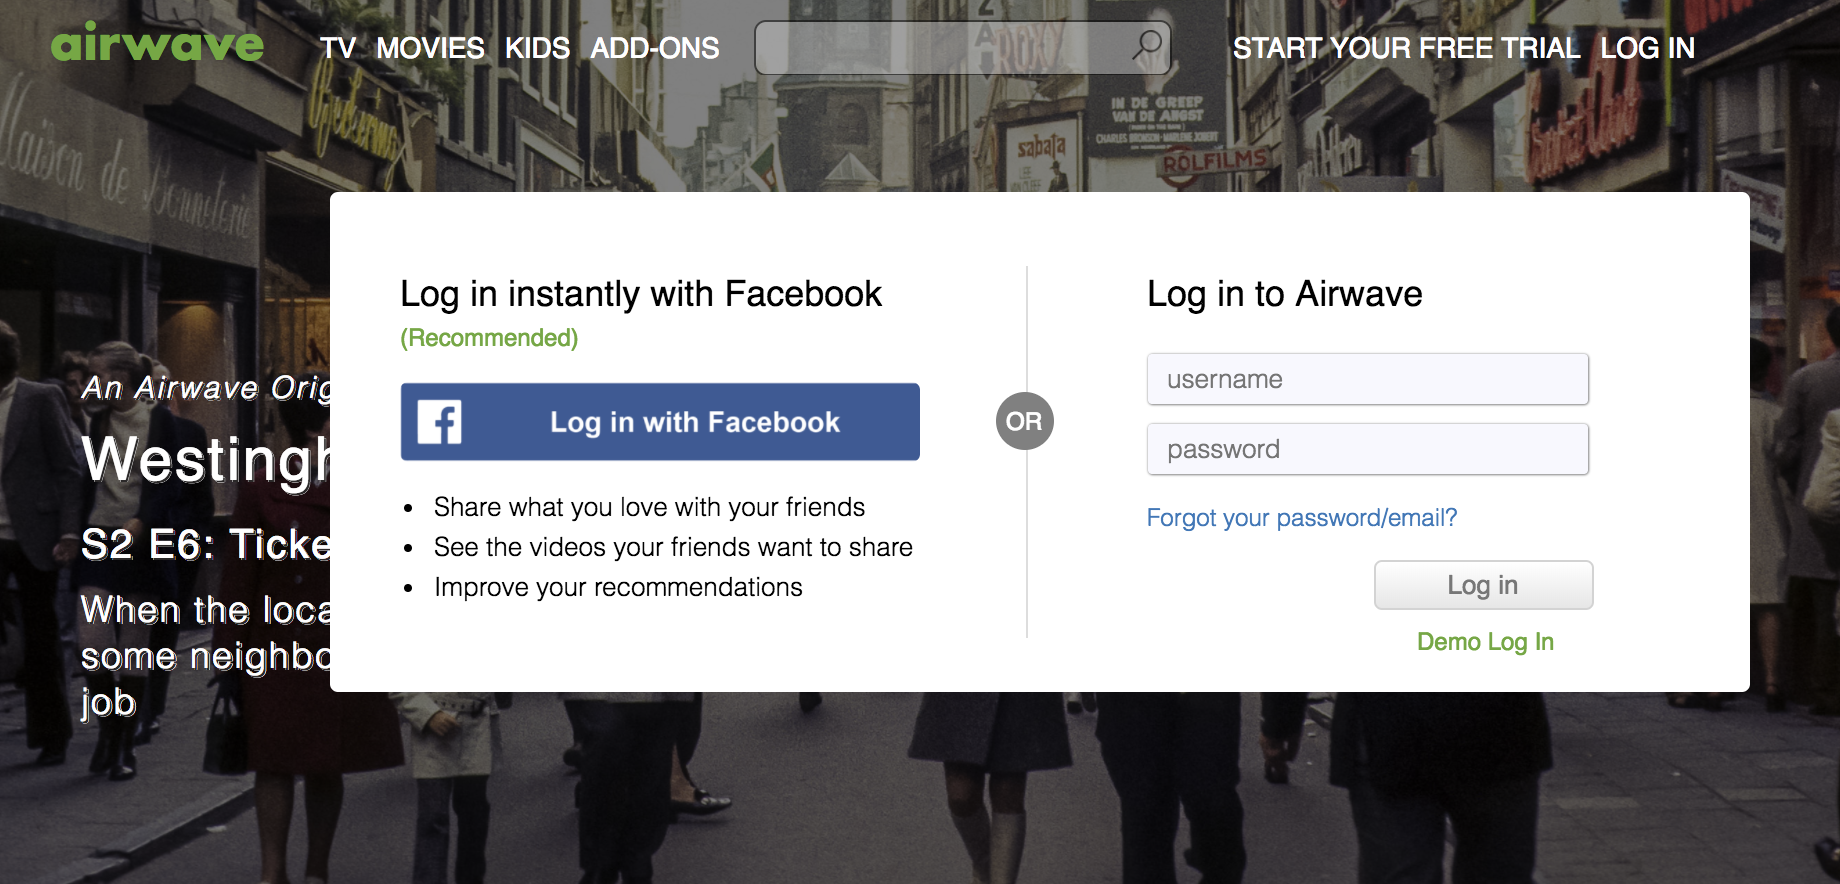
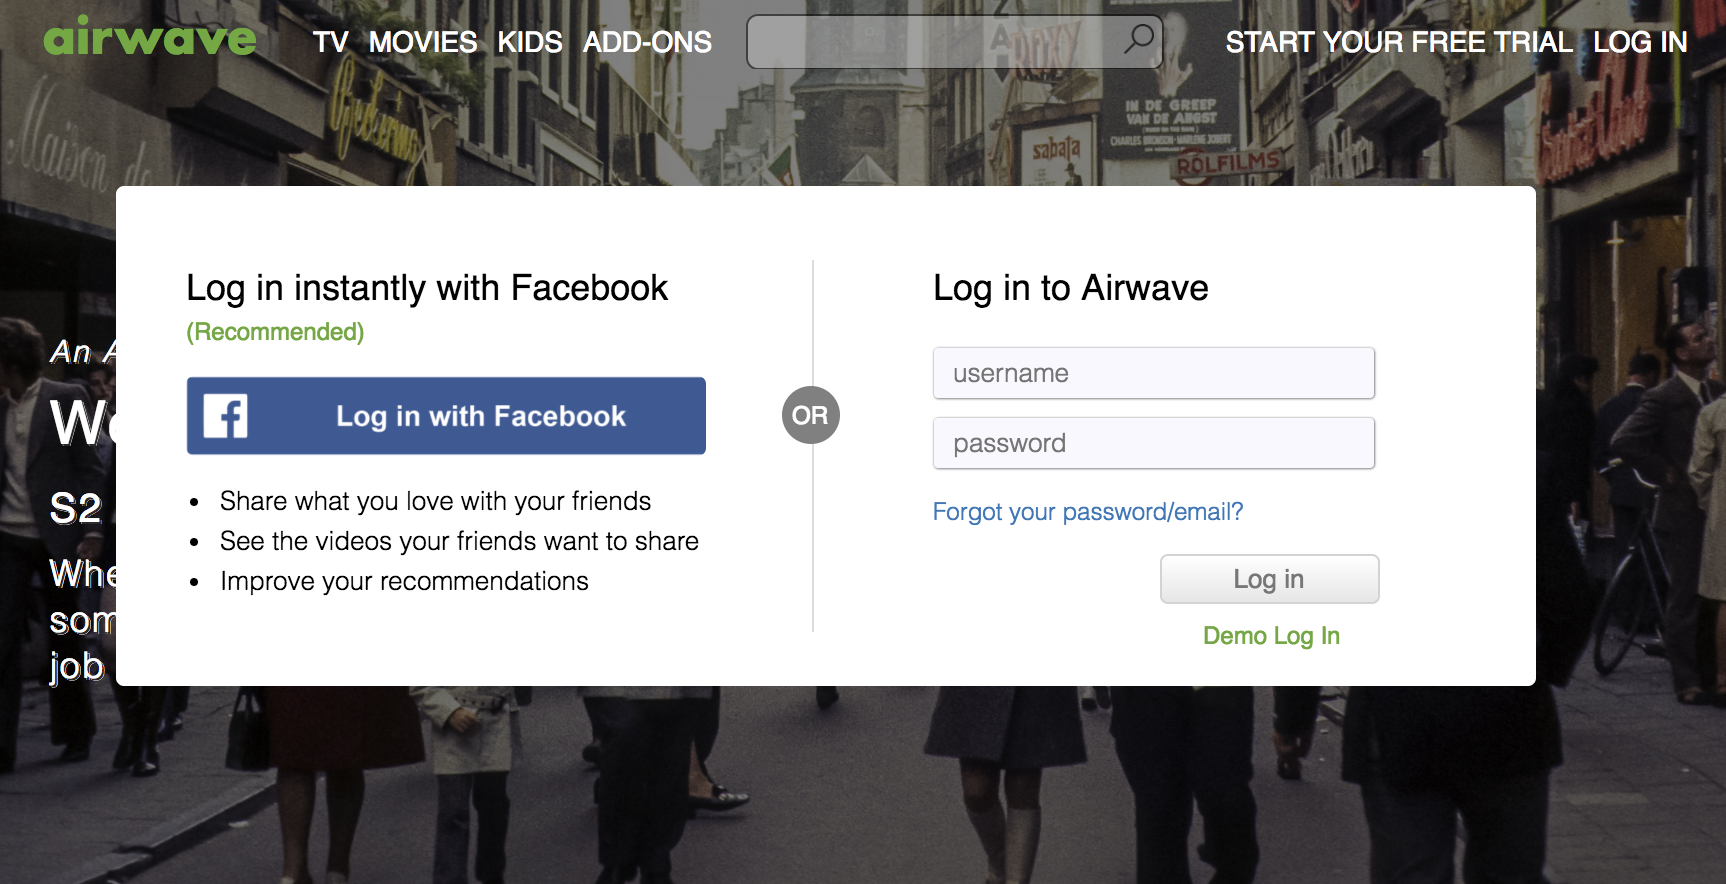
reseed

diff --git a/frontend/components/watchlist/watchlist.jsx b/frontend/components/watchlist/watchlist.jsx
@@ -10,39 +10,38 @@ class Watchlist extends React.Component {
   }
 
   render(){
-    if (this.props.episodes ){
+    let currentUserOrNot="";
+    if (this.props.currentUser.username){
       const watchlistItems = this.props.episodes.map((e) => {
         return (
           <WatchlistItem episode={e} key={e.id}/>
         );
       });
 
-      if (this.props.currentUser){
-        const currentUserOrNot =(
+
+      currentUserOrNot = (
+        <section className="watchlist-topbar">
           <button className="watchlist-topbar-title">
-            {currentUser.username}{`'`}s Watchlist
+            {this.props.currentUser.username}{`'`}s Watchlist
           </button>
-        );
-    }else {
-      const currentUserOrNot = "";
-    }
+
+        </section>
+      );
 
       return (
         <div className="watchlist-parent">
-          <section className="watchlist-topbar">
-            {currentUserOrNot}
-          </section>
+          {currentUserOrNot}
           <section className="watchlist-index">
             {watchlistItems}
           </section>
         </div>
       );
-    }else {
-      return <div></div>;
     }
 
+    else {
+      return <div></div>;
+    }
   }
 }
-
 
 export default Watchlist;

diff --git a/frontend/components/episode/episode_view_container.js b/frontend/components/episode/episode_view_container.js
@@ -5,11 +5,11 @@ import { withRouter } from 'react-router-dom';
 
 const mapStateToProps = (state, ownProps) => {
   const episodeId = parseInt(ownProps.match.params.episodeId);
-  
+
   let comments;
   if(state.entities.episodes[episodeId]){
-    comments = state.entities.episodes[episodeId].commentIds.map(comment => {
-      return state.entities.comments[comment.id];
+    comments = state.entities.episodes[episodeId].commentIds.map(id => {
+      return state.entities.comments[id];
     });
   }else {
     comments =[];

diff --git a/frontend/components/episode/episode_view.jsx b/frontend/components/episode/episode_view.jsx
@@ -172,6 +172,9 @@ class EpisodeView extends React.Component {
 
             </section>
           </div>
+          <EpisodeCommentIndex
+            comments={this.props.comments}
+            />
         </div>
 
       );
@@ -182,9 +185,6 @@ class EpisodeView extends React.Component {
 
 
 }
-// <EpisodeCommentIndex
-//   comments={this.props.comments}
-//   />
 
 
 export default EpisodeView;

diff --git a/app/assets/stylesheets/modal.scss b/app/assets/stylesheets/modal.scss
@@ -2,7 +2,7 @@
   position: fixed;
   width: 550px;
   top: 100px;
-  left: 270px;
+  left: 150px;
   z-index: 279;
   background: rgba(0, 0, 0, 0.2);
 }

diff --git a/db/seeds.rb b/db/seeds.rb
@@ -65,12 +65,12 @@ groucho4 = Episode.create!({
   video: "https://s3.us-east-2.amazonaws.com/airwave-seed/You_Bet_Your_Life_House.ogv"
 })
 
-groucho5 = Episode.create!({
-  title: "You Bet Your Life with Groucho Marx: Voice",
-  description: "Grouch tests each contestant's voice ... and sense of humor",
-  series_id: groucho.id,
-  video: "https://s3.us-east-2.amazonaws.com/airwave-seed/You_Bet_Your_Life_Voice.ogv"
-})
+# groucho5 = Episode.create!({
+#   title: "You Bet Your Life with Groucho Marx: Voice",
+#   description: "Grouch tests each contestant's voice ... and sense of humor",
+#   series_id: groucho.id,
+#   video: "https://s3.us-east-2.amazonaws.com/airwave-seed/You_Bet_Your_Life_Voice.ogv"
+# })
 
 # bonanza
 
@@ -224,6 +224,27 @@ WatchlistAdd.create!(
   episode_id: sherlock4.id
 )
 
+
+WatchlistAdd.create!({
+  user_id: frank.id,
+  episode_id: hillbillies2.id
+})
+
+WatchlistAdd.create!(
+  user_id: frank.id,
+  episode_id: bonanza5.id
+)
+
+WatchlistAdd.create!(
+  user_id: frank.id,
+  episode_id: groucho3.id
+)
+
+WatchlistAdd.create!(
+  user_id: frank.id,
+  episode_id: sherlock4.id
+)
+
 c1 = Comment.create!({
   user_id: maurice.id,
   episode_id: groucho1.id,
@@ -240,4 +261,10 @@ c3 = Comment.create!({
   user_id: frank.id,
   episode_id: groucho1.id,
   body: "groucho you crazy bruh"
+})
+
+c4 = Comment.create!({
+  user_id: maurice.id,
+  episode_id: sherlock2.id,
+  body: "Personally, I prefer the BBC's late '60s interpretation of Holmes'"
 })

diff --git a/README.md b/README.md
@@ -1,4 +1,16 @@
 # README
 
-Airwave
+**# Airwave**
+
+[airwave](http://airwavetv.herokuapp.com/#/)
+
+Airwave is a single page Hulu clone built on a Rails framework, with a Postgresql database and a React-Redux frontend. Users can watch episodes of 1950s and 60s TV shows, leave comments for future viewers, and check the profile pages of each series.
+
+We made you an account. Let's log in.
+
 ![modal](app/assets/images/modal.png "modal")
+
+Look's like you've put together an exciting watchlist.
+A user's watchlist is generated from a join table with two columns: user_id and episode_id.
+We just saw the user side in action when you logged in.
+The episode_id is drawn from an episodes table with title, description and series_id as key columns.
